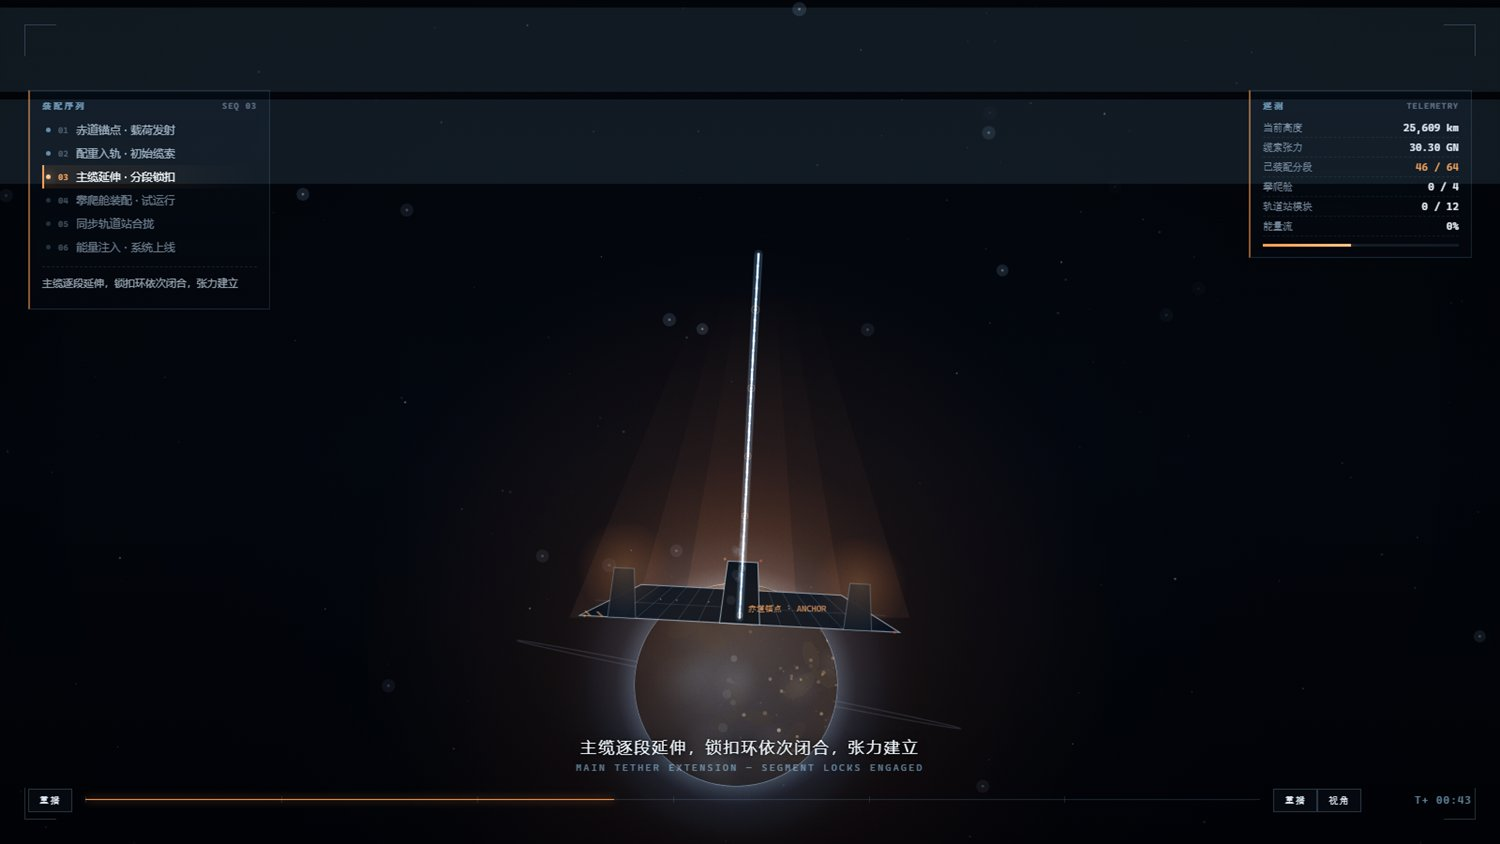
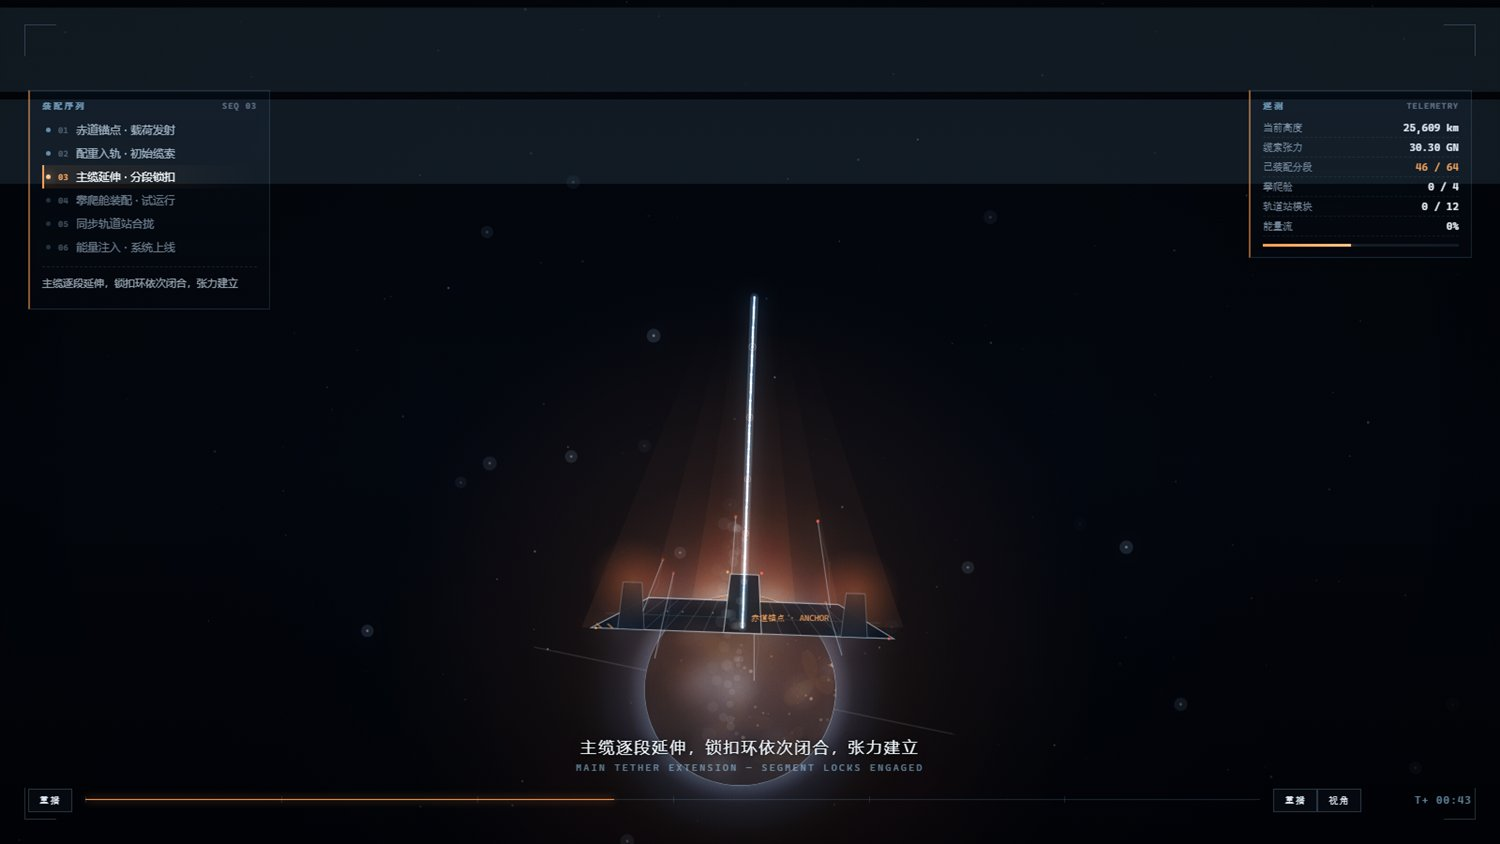
太空电梯：加泛光/神光/塔架/桁架配重与近地雾，整体提亮

diff --git a/AI开发Demo/assets/space-elevator.html b/AI开发Demo/assets/space-elevator.html
@@ -250,11 +250,16 @@
 
   /* ================= 尺寸 ================= */
   let W=0,H=0,DPR=1;
+  let bloomCv=null, bloomCx=null, bw=0, bh=0;
   function resize(){
     DPR = Math.min(window.devicePixelRatio || 1, 2);
     W = canvas.clientWidth; H = canvas.clientHeight;
     canvas.width = Math.round(W*DPR); canvas.height = Math.round(H*DPR);
     ctx.setTransform(DPR,0,0,DPR,0,0);
+    bw = Math.max(160, Math.round(W/3)); bh = Math.max(90, Math.round(H/3));
+    bloomCv = document.createElement('canvas');
+    bloomCv.width = bw; bloomCv.height = bh;
+    bloomCx = bloomCv.getContext('2d');
     layoutBars();
     updateCamera();
   }
@@ -435,6 +440,109 @@
     }
   }
 
+  /* ================= 神光 ================= */
+  function drawGodRays(time){
+    const SP = project(mul(SUN, 70));
+    if (!SP) return;
+    const cx = SP.x, cy = SP.y;
+    const R0 = Math.hypot(W, H) * 0.15;
+    const R1 = Math.hypot(W, H) * 1.15;
+    ctx.save();
+    ctx.globalCompositeOperation = 'lighter';
+    for (let i=0;i<22;i++){
+      const base = (i/22)*Math.PI*2 + time*0.01;
+      const w = 0.012 + (i%5)*0.004;
+      const a = 0.018 + (i%3)*0.006;
+      const g = ctx.createLinearGradient(cx, cy,
+        cx + Math.cos(base)*R1, cy + Math.sin(base)*R1);
+      g.addColorStop(0, 'rgba(255,236,205,' + a + ')');
+      g.addColorStop(0.45, 'rgba(255,200,150,' + (a*0.4) + ')');
+      g.addColorStop(1, 'rgba(255,180,120,0)');
+      ctx.fillStyle = g;
+      ctx.beginPath();
+      ctx.moveTo(cx + Math.cos(base-w)*R0, cy + Math.sin(base-w)*R0);
+      ctx.lineTo(cx + Math.cos(base+w)*R0, cy + Math.sin(base+w)*R0);
+      ctx.lineTo(cx + Math.cos(base+w*2.4)*R1, cy + Math.sin(base+w*2.4)*R1);
+      ctx.lineTo(cx + Math.cos(base-w*2.4)*R1, cy + Math.sin(base-w*2.4)*R1);
+      ctx.closePath();
+      ctx.fill();
+    }
+    ctx.restore();
+  }
+
+  /* ================= 前景剪影 ================= */
+  function drawForegroundFrame(time){
+    ctx.save();
+    ctx.fillStyle = 'rgba(1,3,6,.97)';
+
+    // 左下：吊车桁架
+    ctx.beginPath();
+    ctx.moveTo(0, H);
+    ctx.lineTo(0, H*0.58);
+    ctx.lineTo(W*0.055, H*0.62);
+    ctx.lineTo(W*0.13, H*0.60);
+    ctx.lineTo(W*0.20, H*0.66);
+    ctx.lineTo(W*0.215, H);
+    ctx.closePath();
+    ctx.fill();
+
+    // 右上：天线塔
+    ctx.beginPath();
+    ctx.moveTo(W, 0);
+    ctx.lineTo(W*0.86, 0);
+    ctx.lineTo(W*0.885, H*0.10);
+    ctx.lineTo(W*0.91, H*0.30);
+    ctx.lineTo(W*0.905, H*0.34);
+    ctx.lineTo(W*0.93, H*0.37);
+    ctx.lineTo(W, H*0.40);
+    ctx.closePath();
+    ctx.fill();
+
+    // 桁架亮线
+    ctx.strokeStyle = 'rgba(120,170,220,.10)';
+    ctx.lineWidth = 1;
+    for (let i=0;i<5;i++){
+      ctx.beginPath();
+      ctx.moveTo(0, H*(0.62 + i*0.075));
+      ctx.lineTo(W*0.20 - i*W*0.012, H*(0.60 + i*0.07));
+      ctx.stroke();
+    }
+    // 警示灯
+    const blink = 0.5 + 0.5*Math.sin(time*2.6);
+    ctx.globalAlpha = 0.35 + 0.65*blink;
+    ctx.fillStyle = '#ff5a3c';
+    ctx.beginPath(); ctx.arc(W*0.055, H*0.615, 2, 0, Math.PI*2); ctx.fill();
+    ctx.beginPath(); ctx.arc(W*0.885, H*0.10, 2, 0, Math.PI*2); ctx.fill();
+    ctx.restore();
+  }
+
+  /* ================= 调色 ================= */
+  function bloomPass(){
+    if (!bloomCx) return;
+    bloomCx.clearRect(0,0,bw,bh);
+    bloomCx.filter = 'brightness(1.3) contrast(2.3) blur(3px)';
+    bloomCx.drawImage(canvas, 0, 0, bw, bh);
+    bloomCx.filter = 'none';
+    ctx.save();
+    ctx.globalCompositeOperation = 'lighter';
+    ctx.globalAlpha = 0.38;
+    ctx.drawImage(bloomCv, 0, 0, W, H);
+    ctx.restore();
+  }
+
+  function colorGrade(){
+    // 橙青分离：底部暖、顶部冷
+    const g = ctx.createLinearGradient(0, 0, 0, H);
+    g.addColorStop(0, 'rgba(50,100,190,.10)');
+    g.addColorStop(0.55, 'rgba(0,0,0,0)');
+    g.addColorStop(1, 'rgba(255,120,50,.08)');
+    ctx.save();
+    ctx.globalCompositeOperation = 'overlay';
+    ctx.fillStyle = g;
+    ctx.fillRect(0, 0, W, H);
+    ctx.restore();
+  }
+
   /* ================= 地球 ================= */
   function drawEarth(time, t){
     const C = project([0,0,0]); if (!C) return;
@@ -456,9 +564,9 @@
     g = ctx.createRadialGradient(
       C.x + sunSide[0]*rad*.35, C.y + sunSide[1]*rad*.35, rad*.05,
       C.x, C.y, rad*1.05);
-    g.addColorStop(0,'#1b3550');
-    g.addColorStop(.35,'#0e2136');
-    g.addColorStop(.75,'#071626');
+    g.addColorStop(0,'#2a4d70');
+    g.addColorStop(.35,'#16324c');
+    g.addColorStop(.75,'#0a1c2e');
     g.addColorStop(1,'#030a12');
     ctx.fillStyle = g;
     ctx.beginPath(); ctx.arc(C.x,C.y,rad,0,Math.PI*2); ctx.fill();
@@ -707,6 +815,24 @@
       ctx.beginPath(); ctx.arc(x*s, -th*0.55, s*0.48, 0, Math.PI*2); ctx.fill();
     });
 
+    // 塔架（细杆 + 顶灯，屏幕空间）
+    for (let i=0;i<6;i++){
+      const ang2 = (i/6)*Math.PI*2 + 0.4;
+      const bx = Math.cos(ang2)*s*1.15, by = Math.sin(ang2)*s*0.50;
+      const hh = s*(0.55 + (i%3)*0.18);
+      const tx = bx*0.82, ty = by - hh;
+      ctx.save();
+      ctx.strokeStyle = "rgba(190,210,228,.40)";
+      ctx.lineWidth = 1.2;
+      ctx.beginPath(); ctx.moveTo(bx,by); ctx.lineTo(tx,ty); ctx.stroke();
+      ctx.strokeStyle = "rgba(150,175,200,.14)";
+      ctx.lineWidth = .8;
+      ctx.beginPath(); ctx.moveTo(bx,by); ctx.lineTo((bx+tx)/2 + 5, (by+ty)/2); ctx.lineTo(tx,ty); ctx.stroke();
+      ctx.globalAlpha = .35 + .6*Math.max(0, Math.sin(time*3 + i*1.7));
+      ctx.fillStyle = "#ff5a3c";
+      ctx.beginPath(); ctx.arc(tx,ty,1.7,0,Math.PI*2); ctx.fill();
+      ctx.restore();
+    }
     // 中央升降井
     ctx.fillStyle = 'rgba(8,13,20,.99)';
     ctx.strokeStyle = 'rgba(200,220,235,.6)';
@@ -829,6 +955,14 @@
       ctx.restore();
     }
 
+    // 航标灯：每 12 段一盏，交替红/白
+    for (let i=0;i<builtCount;i+=12){
+      const p2 = tetherPoint((i+0.5)/SEGMENTS, sway);
+      const ph = time*2 + i;
+      const on = 0.35 + 0.65*Math.max(0, Math.sin(ph));
+      glowDot(p2, .0016, i % 24 === 0 ? 'rgba(255,90,60,.9)' : 'rgba(255,230,190,.9)', on*0.7);
+    }
+
     // 能量脉冲（上线后）
     const energy = energyLevel(t);
     if (energy > 0){
@@ -844,16 +978,31 @@
       const C = project(tetherPoint(built, sway));
       if (C){
         const s = Math.max(5, 78*C.f*0.006);
-        ctx.save(); ctx.translate(C.x,C.y); ctx.rotate(time*0.18);
-        ctx.fillStyle = 'rgba(12,18,26,.95)';
-        ctx.strokeStyle = 'rgba(255,170,90,.85)';
-        ctx.lineWidth = 1.2;
-        ctx.beginPath();
-        for (let i=0;i<6;i++){ const a=i*Math.PI/3; const px=Math.cos(a)*s, py=Math.sin(a)*s*.8;
-          i?ctx.lineTo(px,py):ctx.moveTo(px,py); }
-        ctx.closePath(); ctx.fill(); ctx.stroke();
+        ctx.save(); ctx.translate(C.x,C.y); ctx.rotate(time*0.12);
+        // 桁架主体
+        ctx.fillStyle = 'rgba(14,20,28,.96)';
+        ctx.strokeStyle = 'rgba(200,220,235,.55)';
+        ctx.lineWidth = 1;
+        ctx.fillRect(-s, -s*.5, s*2, s);
+        ctx.strokeRect(-s, -s*.5, s*2, s);
+        // 内部桁条
+        ctx.strokeStyle = 'rgba(160,185,210,.22)';
+        ctx.lineWidth = .7;
+        for (let i=0;i<4;i++){
+          const yy = -s*.5 + i*s*.33;
+          ctx.beginPath(); ctx.moveTo(-s, yy); ctx.lineTo(s, yy); ctx.stroke();
+        }
+        // 两侧储罐
+        ctx.fillStyle = 'rgba(30,38,48,.95)';
+        ctx.strokeStyle = 'rgba(190,210,230,.4)';
+        ctx.fillRect(-s*1.35, -s*.28, s*.3, s*.56);
+        ctx.strokeRect(-s*1.35, -s*.28, s*.3, s*.56);
+        ctx.fillRect(s*1.05, -s*.28, s*.3, s*.56);
+        ctx.strokeRect(s*1.05, -s*.28, s*.3, s*.56);
+        // 航标
+        ctx.globalAlpha = .4 + .6*Math.max(0, Math.sin(time*2.4));
         ctx.fillStyle = '#ff5a3c';
-        ctx.beginPath(); ctx.arc(0,0,s*.18,0,Math.PI*2); ctx.fill();
+        ctx.beginPath(); ctx.arc(0, -s*.62, 2, 0, Math.PI*2); ctx.fill();
         ctx.restore();
         hudLabel(tetherPoint(1, sway), '配重 · COUNTERWEIGHT', 'rgba(255,179,71,.85)', .9);
       }
@@ -1169,7 +1318,20 @@
     drawRockets(time, timeline);
     drawStation(time, timeline);
     drawClimbers(time, timeline);
+    drawGodRays(time);
+    // 近地层冷雾
+    ctx.save();
+    const hz = ctx.createLinearGradient(0, H*0.55, 0, H);
+    hz.addColorStop(0,'rgba(40,80,140,0)');
+    hz.addColorStop(.55,'rgba(40,90,160,.05)');
+    hz.addColorStop(1,'rgba(30,70,130,.10)');
+    ctx.fillStyle = hz;
+    ctx.fillRect(0, H*0.55, W, H*0.45);
+    ctx.restore();
+
     drawForeground(time);
+    bloomPass();
+    colorGrade();
     drawPost(time);
     updateHUD(timeline);
 
